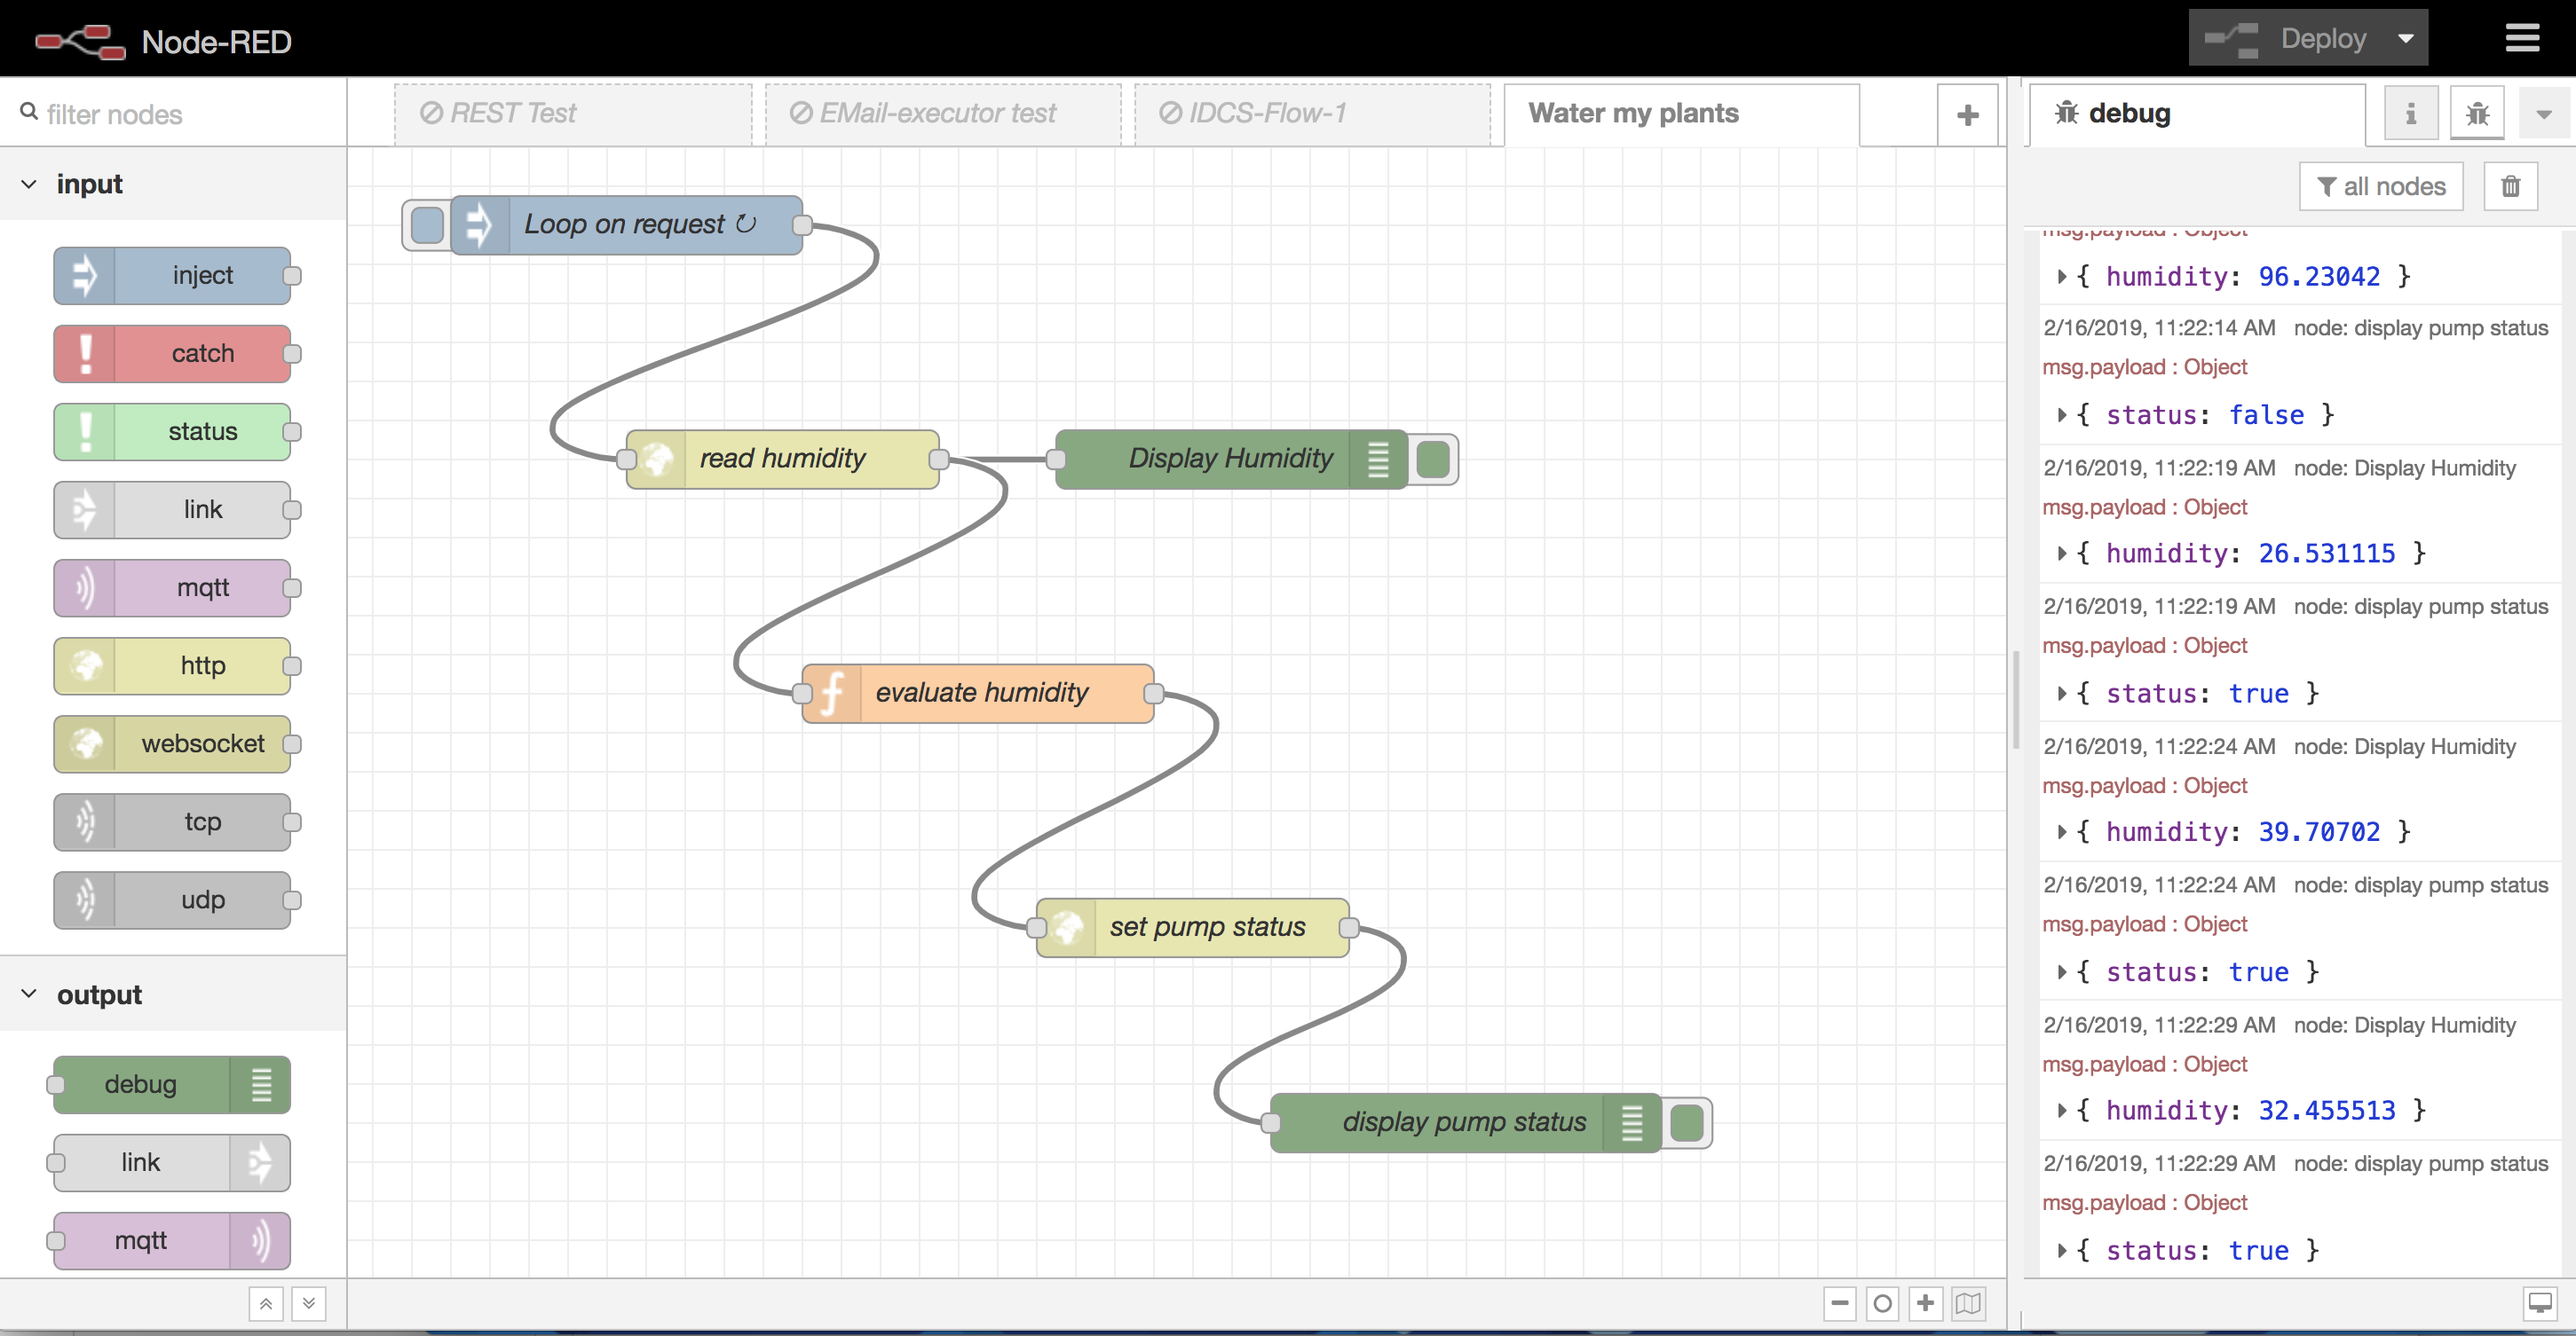
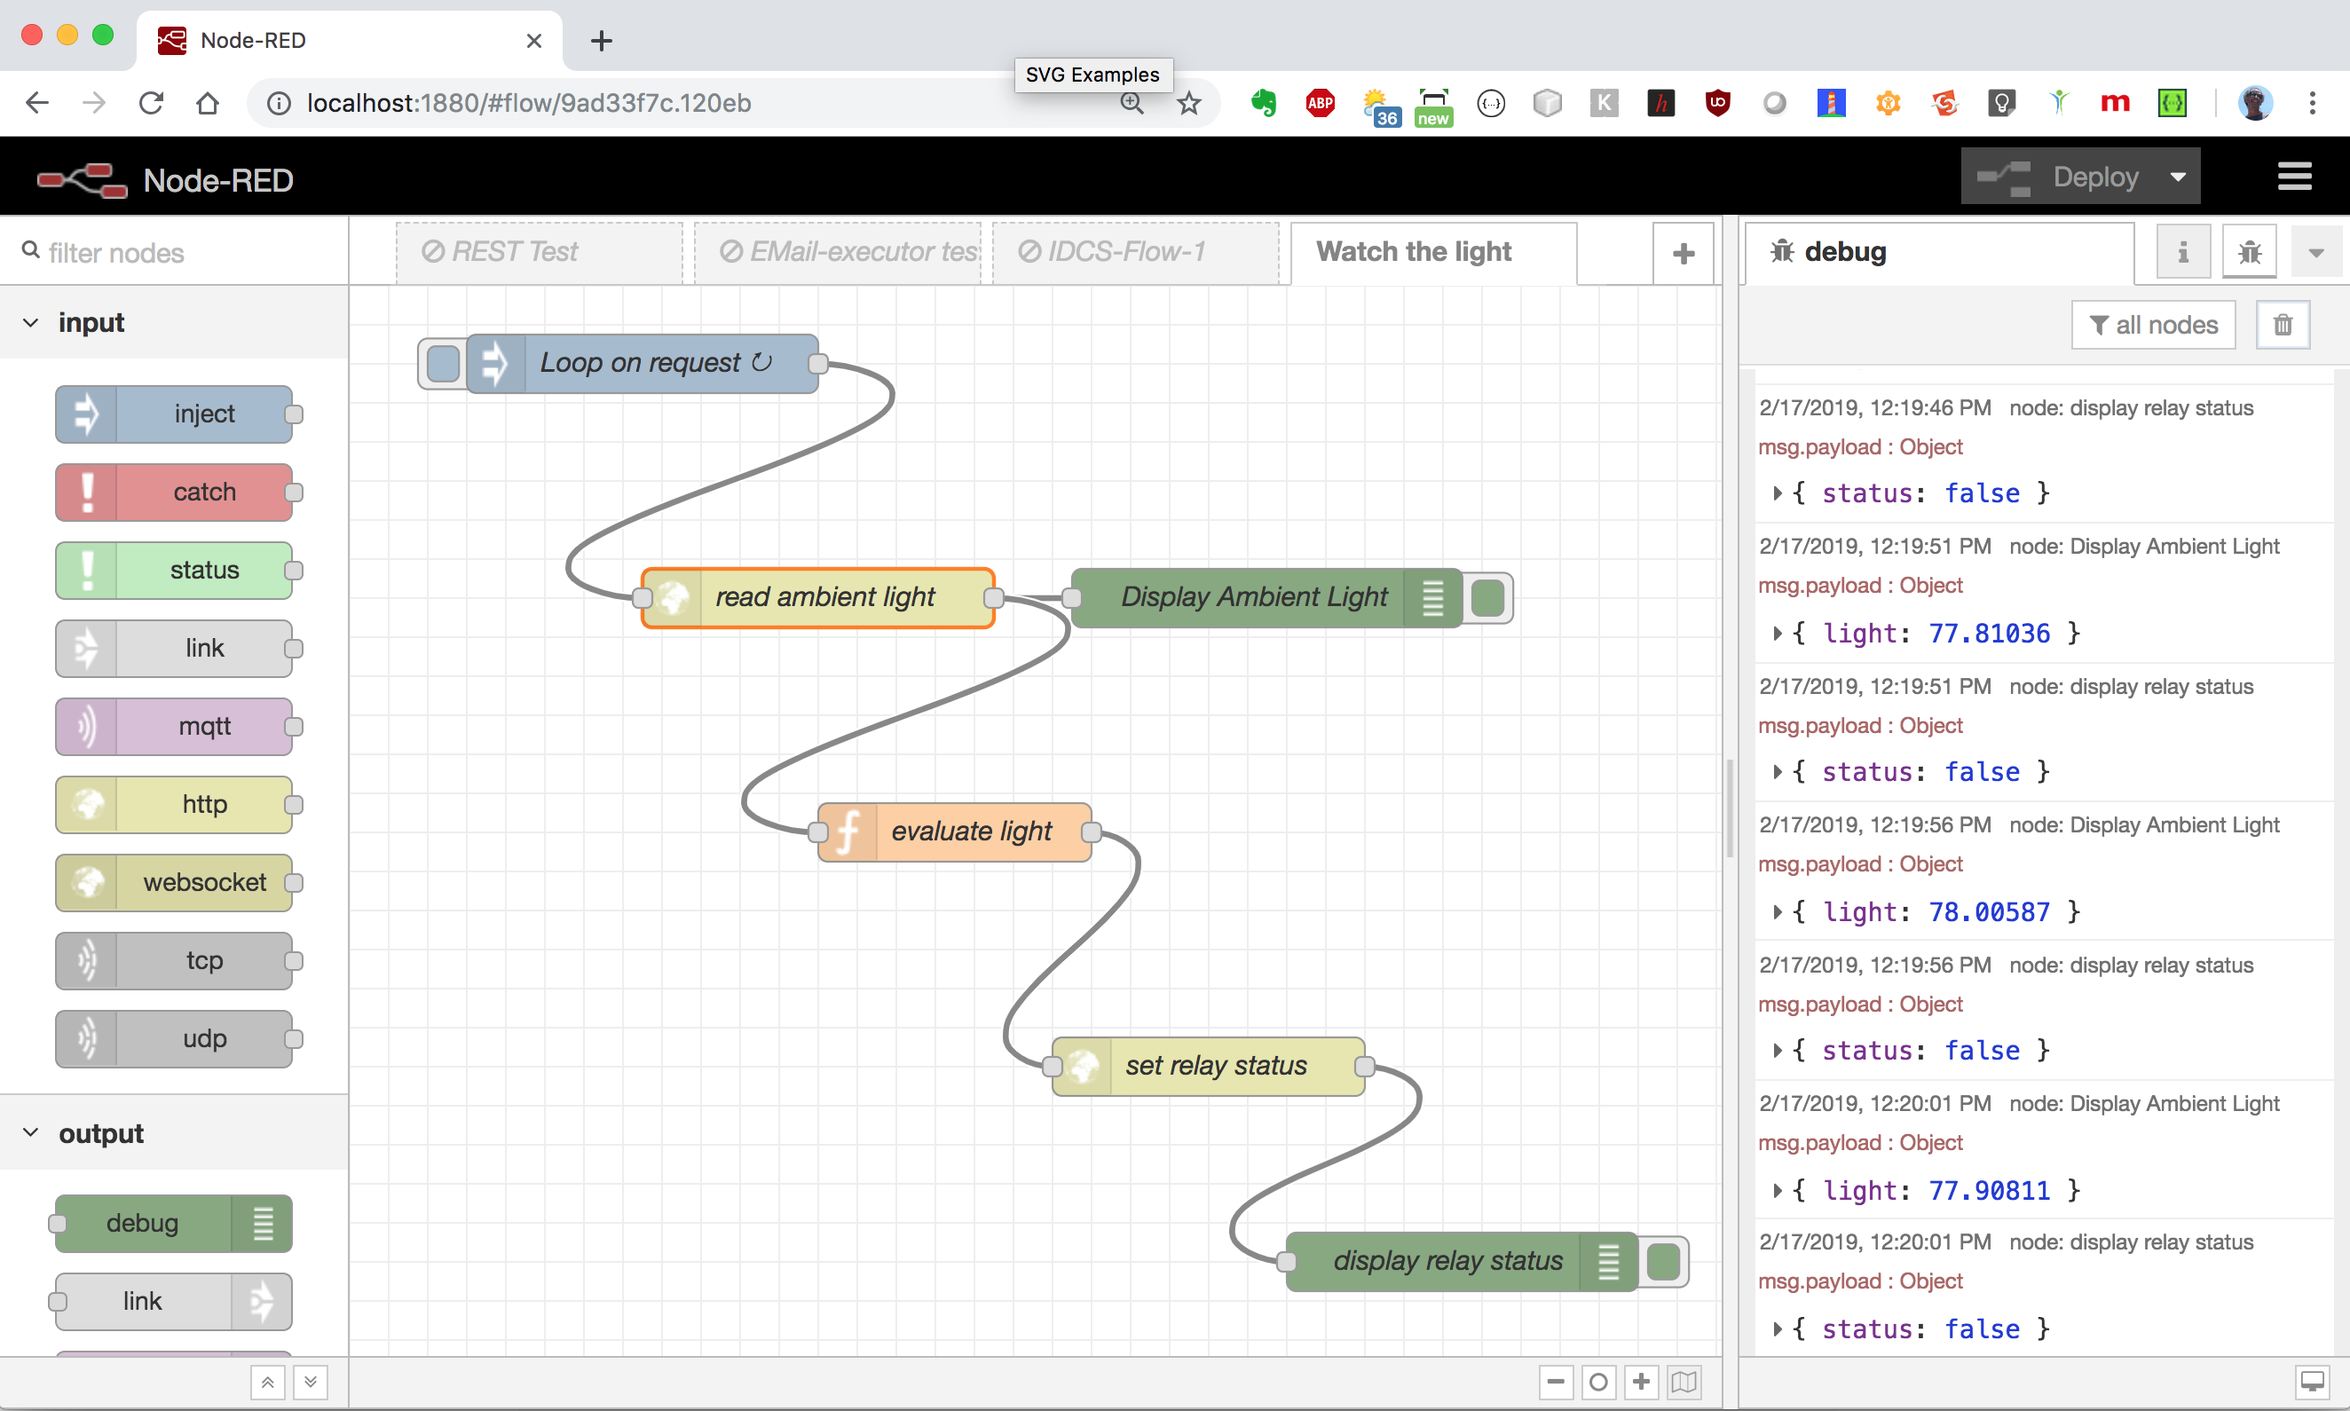
With node-red flow

diff --git a/Project.Trunk/REST.clients/REST.assembler/README.md b/Project.Trunk/REST.clients/REST.assembler/README.md
@@ -32,6 +32,8 @@ REST clients can be programs, or Web pages.
 ## Wiring
 ![Relay](./img/Relay_bb.png)
 
+> Note: I use 3v3 for a one-relay board, and 5V for a two-relay board.
+
 ![Light Sensor](./img/LightSensorWiring_bb.png)
 
 
@@ -259,39 +261,8 @@ Then at the end of the `<dependencies>` section:
  </dependency>
 ```
 
-If you want to use `gradle`, in the `build.gradle`, change the following:
-```groovy
-sourceCompatibility = 1.8
-targetCompatibility = 1.8
-```
-and add in the `repositories`:
-```groovy
-repositories {
-    mavenLocal()
-    mavenCentral()
-    maven { url "http://repo.maven.apache.org/maven2" }
-    maven { url "https://oss.sonatype.org/content/groups/public" }
-}
-```
-and in `dependencies`:
-```groovy
-dependencies {
-    compile 'oliv.raspi.coffee:I2C.SPI:1.0'
-    ...
-}    
-```
-If you like to use `Shadow Jar`, also add
-```groovy
-plugins {
-    id 'java'
-    id 'maven'
-    id 'com.github.johnrengelman.shadow' version '4.0.2'
-}
-
-shadowJar {
-    zip64 true
-}
-``` 
+> Note: I had to rename the PI4J jar file pulled in the `target/libs` directory from `pi4j-core-1.2-SNAPSHOT.jar` to `pi4j-core-1.2-20180423.162750-37.jar`.
+> This is the name it has in the `MANIFEST.MF`.
 
 Now we're ready to dive in the code.
 
@@ -304,12 +275,12 @@ For information
 - `SensorResource` will define the REST interface
 - `SensorProvider` will be the implementation, actually dealing with sensors and pump.
 
-
+The source files, as they should eventually be running are provided in this project.
 
 ##### fnProject
 Still in development, but quite promising. WIP. 🚧
 
-### Using a light custom HTTP Server
+### Using a light custom (micro) HTTP Server
 Less snappy than `Swagger`, but eventually lighter, in term of footprint.
 For small boards (like the Raspberry Pi Zero), this would be my preferred option.
 
@@ -320,12 +291,21 @@ WIP. 🚧
 If you've been using Helidon and Maven, package and run your micro-service:
 ```
  $ mvn package [ -Dmaven.test.skip=true ]
- $ java -jar target/helidon-sensors.jar
+ $ [sudo] java -jar target/helidon-sensors.jar
 ```
+
+### Reaching the services
+The services deployed above should now be reachable:
+```
+curl http://192.168.42.8:8080/v1/sensors/ambient-light
+{"light":84.45748}
+```
+Good!
+
 
 ## Build a flow using Node-RED
 
-Start node-red
+Start node-red, on any achine you want, as long as you can see from it the machine(s) the services are running on.
 ```
  $ node-red
 ```
@@ -339,7 +319,25 @@ Here is the final flow
 
 ![Node Red](./img/node-red.png)
 
-This will read the humidity probe, and start the pump as long as the humidity is below 60%.
+This will read the ambient light probe, and turn the lamp on as long as the light is below 60%.
+
+The heart is the `evaluate light` function, very simple:
+```javascript
+let output = {};
+output.payload = {};
+if (msg.payload !== undefined) {
+    if (msg.payload.light < 60) {
+      output.payload.status = true;    
+    } else {
+      output.payload.status = false;    
+    }
+}
+
+output.headers = {};
+output.headers['Content-Type'] = 'application/json';
+
+return output;
+```
 
 ### Using Swagger (aka Open API)
 [`Swagger`](https://swagger.io/) has been designed to facilitate the development of REST Services.
